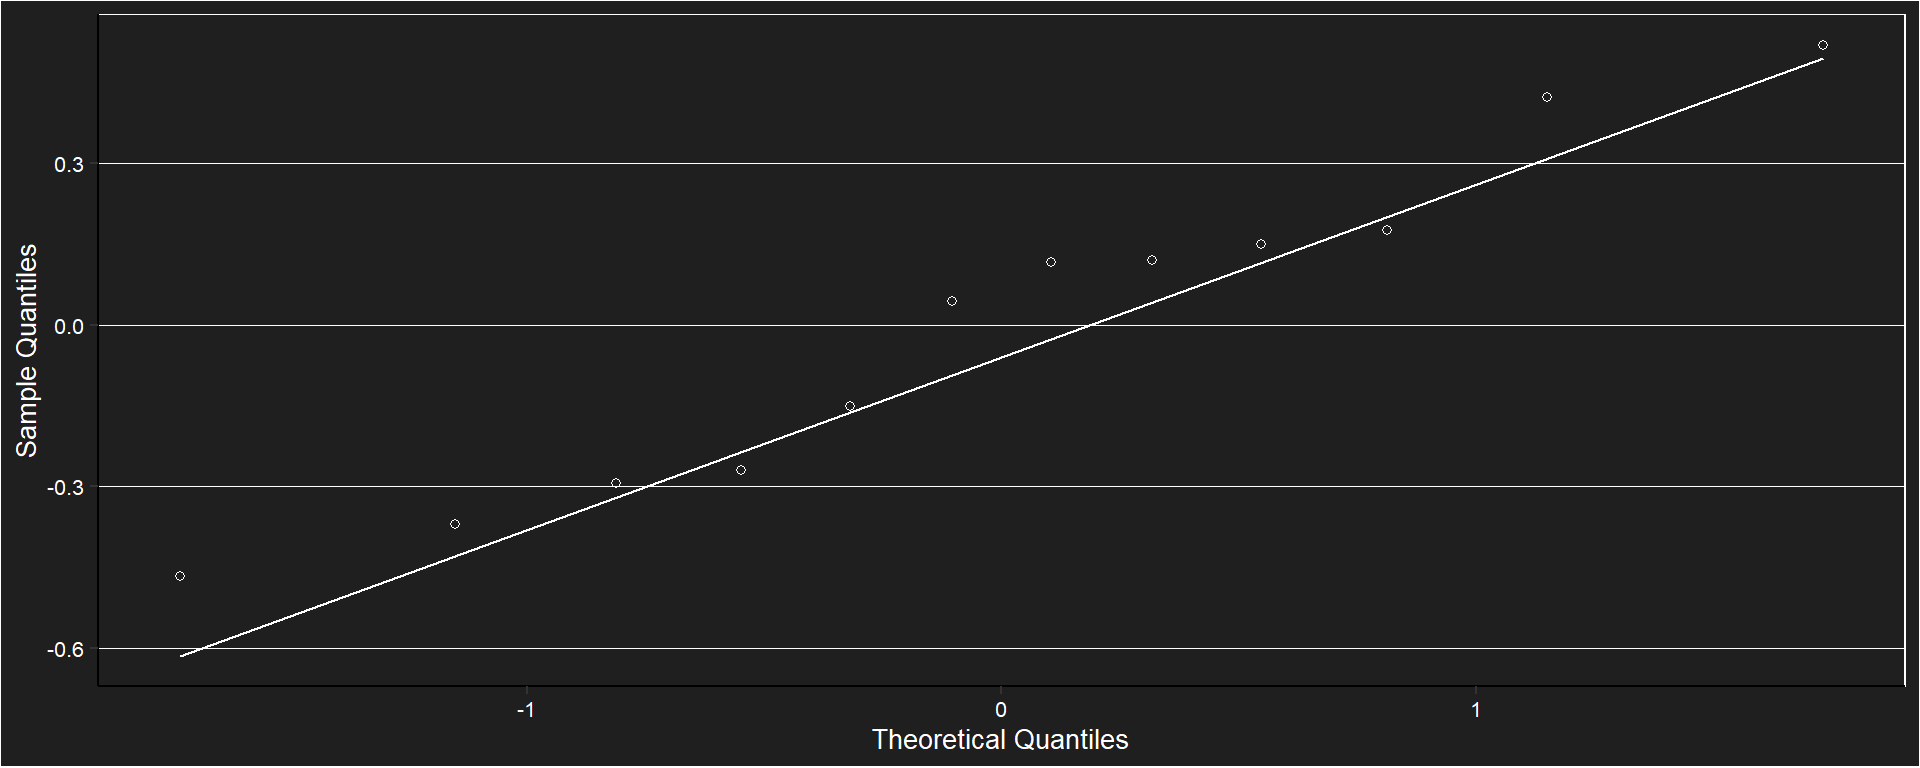
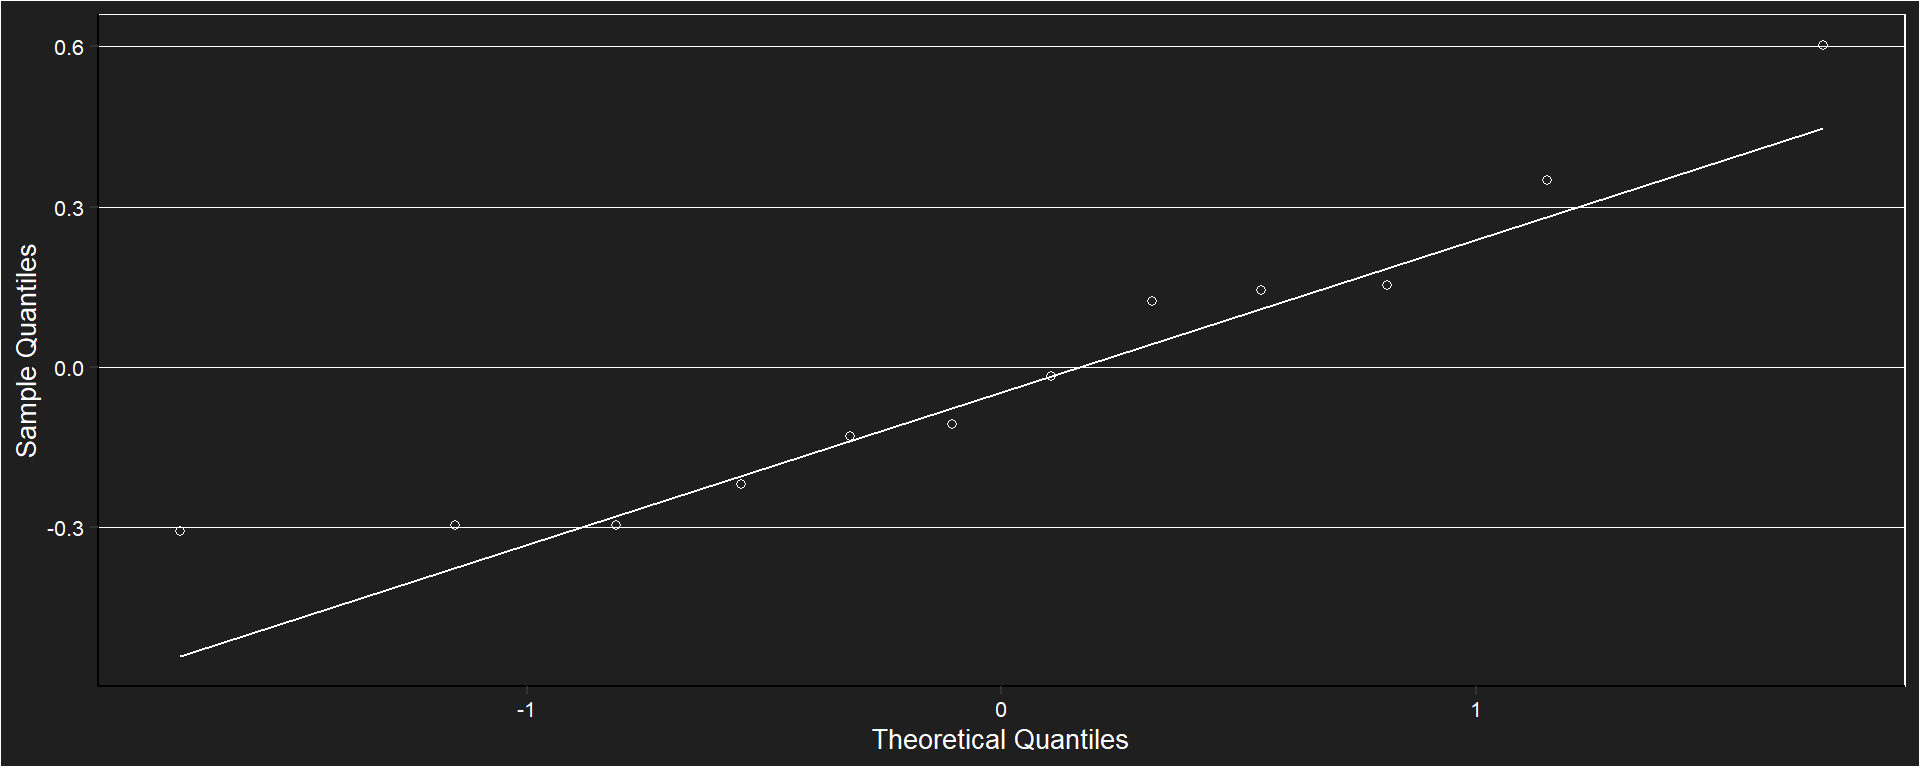
NAIE3

diff --git a/madFiber.html b/madFiber.html
@@ -470,18 +470,39 @@ madurez</h3>
 ## 2   DT  MM 3 73.6484073  0.83625999 0.482814929  2.07738497
 ## 3   DT   M 3 58.6434249  5.24560165 3.028549527 13.03079689
 ## 4   DT  SM 3 59.3641120 10.08351785 5.821721747 25.04884697
-## 5  FDI   I 3  1.5466667  0.52252592 0.301680479  1.29802633
-## 6  FDI  MM 3  1.1766667  0.11590226 0.066916200  0.28791717
-## 7  FDI   M 3  1.2600000  0.30643107 0.176918060  0.76121697
-## 8  FDI  SM 3  1.2966667  0.25696952 0.148361421  0.63834767
-## 9  FDS   I 3  4.5733333  0.25579940 0.147685853  0.63544094
-## 10 FDS  MM 3  3.3000000  0.46357308 0.267644042  1.15157937
-## 11 FDS   M 3  1.7700000  0.23430749 0.135277493  0.58205207
-## 12 FDS  SM 3  1.9266667  0.44657959 0.257832849  1.10936521
+## 5  FDI   I 3  4.5733333  0.25579940 0.147685853  0.63544094
+## 6  FDI  MM 3  3.3000000  0.46357308 0.267644042  1.15157937
+## 7  FDI   M 3  1.7700000  0.23430749 0.135277493  0.58205207
+## 8  FDI  SM 3  1.9266667  0.44657959 0.257832849  1.10936521
+## 9  FDS   I 3  1.5466667  0.52252592 0.301680479  1.29802633
+## 10 FDS  MM 3  1.1766667  0.11590226 0.066916200  0.28791717
+## 11 FDS   M 3  1.2600000  0.30643107 0.176918060  0.76121697
+## 12 FDS  SM 3  1.2966667  0.25696952 0.148361421  0.63834767
 ## 13 FDT   I 3  6.1200000  0.66460515 0.383709960  1.65097071
 ## 14 FDT  MM 3  4.4766667  0.57830211 0.333882880  1.43658209
 ## 15 FDT   M 3  3.0300000  0.45825757 0.264575131  1.13837491
 ## 16 FDT  SM 3  3.2233333  0.27300794 0.157621206  0.67818931
+## 17  IS   I 3  0.3371770  0.10613955 0.061279700  0.26366527
+## 18  IS  MM 3  0.3579186  0.01532281 0.008846628  0.03806397
+## 19  IS   M 3  0.7140465  0.14809968 0.085505389  0.36789999
+## 20  IS  SM 3  0.7165490  0.28408383 0.164015874  0.70570335</code></pre>
+<pre><code>##    CAR MAD N       CONS          sd          se          ci
+## 1   DT   I 3 75.0873682  5.72617785 3.306010322 14.22461434
+## 2   DT  MM 3 73.6484073  0.83625999 0.482814929  2.07738497
+## 3   DT   M 3 58.6434249  5.24560165 3.028549527 13.03079689
+## 4   DT  SM 3 59.3641120 10.08351785 5.821721747 25.04884697
+## 5  FDI   I 3 26.7113960  1.49404354 0.862586438  3.71140989
+## 6  FDI  MM 3 27.1320956  3.81142700 2.200528407  9.46810956
+## 7  FDI   M 3 15.8184939  2.09400656 1.208975254  5.20180067
+## 8  FDI  SM 3 15.5102894  3.59511007 2.075637769  8.93074851
+## 9  FDS   I 3  9.0335917  3.05190889 1.762020422  7.58136198
+## 10 FDS  MM 3  9.6743735  0.95293065 0.550174767  2.36721096
+## 11 FDS   M 3 11.2606228  2.73857515 1.581117098  6.80299780
+## 12 FDS  SM 3 10.4385858  2.06868768 1.194357391  5.13890509
+## 13 FDT   I 3 35.7449877  3.88174881 2.241128723  9.64279862
+## 14 FDT  MM 3 36.8064691  4.75471158 2.745134012 11.81135835
+## 15 FDT   M 3 27.0791168  4.09544892 2.364508538 10.17365911
+## 16 FDT  SM 3 25.9488752  2.19780213 1.268901652  5.45964315
 ## 17  IS   I 3  0.3371770  0.10613955 0.061279700  0.26366527
 ## 18  IS  MM 3  0.3579186  0.01532281 0.008846628  0.03806397
 ## 19  IS   M 3  0.7140465  0.14809968 0.085505389  0.36789999
@@ -497,44 +518,42 @@ madurez</h3>
 ## 
 ## Coefficients:
 ## (Intercept)        MADMM         MADM        MADSM  
-##       4.573       -1.273       -2.803       -2.647</code></pre>
+##      1.5467      -0.3700      -0.2867      -0.2500</code></pre>
 <p><img src="madFiber_files/figure-html/unnamed-chunk-4-1.png" width="960" style="display: block; margin: auto;" /><img src="madFiber_files/figure-html/unnamed-chunk-4-2.png" width="960" style="display: block; margin: auto;" /></p>
 <pre><code>## 
 ##  Shapiro-Wilk normality test
 ## 
 ## data:  e
-## W = 0.9504, p-value = 0.6428</code></pre>
+## W = 0.91259, p-value = 0.2302</code></pre>
 </div>
 <div id="anova" class="section level4">
 <h4>Anova</h4>
 <pre><code>## Analysis of Variance Table
 ## 
 ## Response: CONF
-##           Df  Sum Sq Mean Sq F value    Pr(&gt;F)    
-## MAD        3 15.5523  5.1841  38.784 4.106e-05 ***
-## Residuals  8  1.0693  0.1337                      
-## ---
-## Signif. codes:  0 &#39;***&#39; 0.001 &#39;**&#39; 0.01 &#39;*&#39; 0.05 &#39;.&#39; 0.1 &#39; &#39; 1</code></pre>
+##           Df Sum Sq  Mean Sq F value Pr(&gt;F)
+## MAD        3 0.2282 0.076067  0.6816 0.5877
+## Residuals  8 0.8928 0.111600</code></pre>
 </div>
 <div id="test-de-tukey" class="section level4">
 <h4>Test de Tukey</h4>
 <pre><code>## $emmeans
-##  MAD   emmean        SE df lower.CL upper.CL
-##  I   4.573333 0.2110819  8 4.086578 5.060089
-##  MM  3.300000 0.2110819  8 2.813244 3.786756
-##  M   1.770000 0.2110819  8 1.283244 2.256756
-##  SM  1.926667 0.2110819  8 1.439911 2.413422
+##  MAD   emmean       SE df  lower.CL upper.CL
+##  I   1.546667 0.192873  8 1.1019007 1.991433
+##  MM  1.176667 0.192873  8 0.7319007 1.621433
+##  M   1.260000 0.192873  8 0.8152340 1.704766
+##  SM  1.296667 0.192873  8 0.8519007 1.741433
 ## 
 ## Confidence level used: 0.95 
 ## 
 ## $contrasts
 ##  contrast   estimate        SE df t.ratio p.value
-##  I - MM    1.2733333 0.2985148  8  4.266  0.0117 
-##  I - M     2.8033333 0.2985148  8  9.391  0.0001 
-##  I - SM    2.6466667 0.2985148  8  8.866  0.0001 
-##  MM - M    1.5300000 0.2985148  8  5.125  0.0040 
-##  MM - SM   1.3733333 0.2985148  8  4.601  0.0076 
-##  M - SM   -0.1566667 0.2985148  8 -0.525  0.9507 
+##  I - MM    0.3700000 0.2727636  8  1.356  0.5566 
+##  I - M     0.2866667 0.2727636  8  1.051  0.7264 
+##  I - SM    0.2500000 0.2727636  8  0.917  0.7971 
+##  MM - M   -0.0833333 0.2727636  8 -0.306  0.9894 
+##  MM - SM  -0.1200000 0.2727636  8 -0.440  0.9698 
+##  M - SM   -0.0366667 0.2727636  8 -0.134  0.9991 
 ## 
 ## P value adjustment: tukey method for comparing a family of 4 estimates</code></pre>
 <p><img src="madFiber_files/figure-html/unnamed-chunk-6-1.png" width="960" style="display: block; margin: auto;" /></p>
@@ -554,42 +573,44 @@ madurez</h3>
 ## 
 ## Coefficients:
 ## (Intercept)        MADMM         MADM        MADSM  
-##      1.5467      -0.3700      -0.2867      -0.2500</code></pre>
+##       4.573       -1.273       -2.803       -2.647</code></pre>
 <p><img src="madFiber_files/figure-html/unnamed-chunk-7-1.png" width="960" style="display: block; margin: auto;" /><img src="madFiber_files/figure-html/unnamed-chunk-7-2.png" width="960" style="display: block; margin: auto;" /></p>
 <pre><code>## 
 ##  Shapiro-Wilk normality test
 ## 
 ## data:  e
-## W = 0.91259, p-value = 0.2302</code></pre>
+## W = 0.9504, p-value = 0.6428</code></pre>
 </div>
 <div id="anova-1" class="section level4">
 <h4>Anova</h4>
 <pre><code>## Analysis of Variance Table
 ## 
 ## Response: CONF
-##           Df Sum Sq  Mean Sq F value Pr(&gt;F)
-## MAD        3 0.2282 0.076067  0.6816 0.5877
-## Residuals  8 0.8928 0.111600</code></pre>
+##           Df  Sum Sq Mean Sq F value    Pr(&gt;F)    
+## MAD        3 15.5523  5.1841  38.784 4.106e-05 ***
+## Residuals  8  1.0693  0.1337                      
+## ---
+## Signif. codes:  0 &#39;***&#39; 0.001 &#39;**&#39; 0.01 &#39;*&#39; 0.05 &#39;.&#39; 0.1 &#39; &#39; 1</code></pre>
 </div>
 <div id="test-de-tukey-1" class="section level4">
 <h4>Test de Tukey</h4>
 <pre><code>## $emmeans
-##  MAD   emmean       SE df  lower.CL upper.CL
-##  I   1.546667 0.192873  8 1.1019007 1.991433
-##  MM  1.176667 0.192873  8 0.7319007 1.621433
-##  M   1.260000 0.192873  8 0.8152340 1.704766
-##  SM  1.296667 0.192873  8 0.8519007 1.741433
+##  MAD   emmean        SE df lower.CL upper.CL
+##  I   4.573333 0.2110819  8 4.086578 5.060089
+##  MM  3.300000 0.2110819  8 2.813244 3.786756
+##  M   1.770000 0.2110819  8 1.283244 2.256756
+##  SM  1.926667 0.2110819  8 1.439911 2.413422
 ## 
 ## Confidence level used: 0.95 
 ## 
 ## $contrasts
 ##  contrast   estimate        SE df t.ratio p.value
-##  I - MM    0.3700000 0.2727636  8  1.356  0.5566 
-##  I - M     0.2866667 0.2727636  8  1.051  0.7264 
-##  I - SM    0.2500000 0.2727636  8  0.917  0.7971 
-##  MM - M   -0.0833333 0.2727636  8 -0.306  0.9894 
-##  MM - SM  -0.1200000 0.2727636  8 -0.440  0.9698 
-##  M - SM   -0.0366667 0.2727636  8 -0.134  0.9991 
+##  I - MM    1.2733333 0.2985148  8  4.266  0.0117 
+##  I - M     2.8033333 0.2985148  8  9.391  0.0001 
+##  I - SM    2.6466667 0.2985148  8  8.866  0.0001 
+##  MM - M    1.5300000 0.2985148  8  5.125  0.0040 
+##  MM - SM   1.3733333 0.2985148  8  4.601  0.0076 
+##  M - SM   -0.1566667 0.2985148  8 -0.525  0.9507 
 ## 
 ## P value adjustment: tukey method for comparing a family of 4 estimates</code></pre>
 <p><img src="madFiber_files/figure-html/unnamed-chunk-9-1.png" width="960" style="display: block; margin: auto;" /></p>
@@ -669,44 +690,42 @@ madurez</h3>
 ## 
 ## Coefficients:
 ## (Intercept)        MADMM         MADM        MADSM  
-##     26.7114       0.4207     -10.8929     -11.2011</code></pre>
+##      9.0336       0.6408       2.2270       1.4050</code></pre>
 <p><img src="madFiber_files/figure-html/unnamed-chunk-13-1.png" width="960" style="display: block; margin: auto;" /><img src="madFiber_files/figure-html/unnamed-chunk-13-2.png" width="960" style="display: block; margin: auto;" /></p>
 <pre><code>## 
 ##  Shapiro-Wilk normality test
 ## 
 ## data:  e
-## W = 0.95923, p-value = 0.7729</code></pre>
+## W = 0.90841, p-value = 0.2036</code></pre>
 </div>
 <div id="anova-3" class="section level4">
 <h4>Anova</h4>
 <pre><code>## Analysis of Variance Table
 ## 
 ## Response: CONS
-##           Df Sum Sq Mean Sq F value   Pr(&gt;F)   
-## MAD        3 380.59 126.864  14.895 0.001226 **
-## Residuals  8  68.14   8.517                    
-## ---
-## Signif. codes:  0 &#39;***&#39; 0.001 &#39;**&#39; 0.01 &#39;*&#39; 0.05 &#39;.&#39; 0.1 &#39; &#39; 1</code></pre>
+##           Df Sum Sq Mean Sq F value Pr(&gt;F)
+## MAD        3  8.340  2.7801  0.5054 0.6893
+## Residuals  8 44.003  5.5004</code></pre>
 </div>
 <div id="test-de-tukey-3" class="section level4">
 <h4>Test de Tukey</h4>
 <pre><code>## $emmeans
-##  MAD   emmean       SE df lower.CL upper.CL
-##  I   26.71140 1.684954  8 22.82589 30.59691
-##  MM  27.13210 1.684954  8 23.24659 31.01760
-##  M   15.81849 1.684954  8 11.93298 19.70400
-##  SM  15.51029 1.684954  8 11.62478 19.39580
+##  MAD    emmean       SE df lower.CL upper.CL
+##  I    9.033592 1.354052  8 5.911142 12.15604
+##  MM   9.674373 1.354052  8 6.551924 12.79682
+##  M   11.260623 1.354052  8 8.138173 14.38307
+##  SM  10.438586 1.354052  8 7.316136 13.56104
 ## 
 ## Confidence level used: 0.95 
 ## 
 ## $contrasts
-##  contrast  estimate       SE df t.ratio p.value
-##  I - MM   -0.420700 2.382884  8 -0.177  0.9979 
-##  I - M    10.892902 2.382884  8  4.571  0.0079 
-##  I - SM   11.201107 2.382884  8  4.701  0.0067 
-##  MM - M   11.313602 2.382884  8  4.748  0.0063 
-##  MM - SM  11.621806 2.382884  8  4.877  0.0054 
-##  M - SM    0.308205 2.382884  8  0.129  0.9992 
+##  contrast   estimate       SE df t.ratio p.value
+##  I - MM   -0.6407818 1.914919  8 -0.335  0.9861 
+##  I - M    -2.2270312 1.914919  8 -1.163  0.6644 
+##  I - SM   -1.4049941 1.914919  8 -0.734  0.8809 
+##  MM - M   -1.5862493 1.914919  8 -0.828  0.8398 
+##  MM - SM  -0.7642123 1.914919  8 -0.399  0.9770 
+##  M - SM    0.8220370 1.914919  8  0.429  0.9718 
 ## 
 ## P value adjustment: tukey method for comparing a family of 4 estimates</code></pre>
 <p><img src="madFiber_files/figure-html/unnamed-chunk-15-1.png" width="960" style="display: block; margin: auto;" /></p>
@@ -726,42 +745,44 @@ madurez</h3>
 ## 
 ## Coefficients:
 ## (Intercept)        MADMM         MADM        MADSM  
-##      9.0336       0.6408       2.2270       1.4050</code></pre>
+##     26.7114       0.4207     -10.8929     -11.2011</code></pre>
 <p><img src="madFiber_files/figure-html/unnamed-chunk-16-1.png" width="960" style="display: block; margin: auto;" /><img src="madFiber_files/figure-html/unnamed-chunk-16-2.png" width="960" style="display: block; margin: auto;" /></p>
 <pre><code>## 
 ##  Shapiro-Wilk normality test
 ## 
 ## data:  e
-## W = 0.90841, p-value = 0.2036</code></pre>
+## W = 0.95923, p-value = 0.7729</code></pre>
 </div>
 <div id="anova-4" class="section level4">
 <h4>Anova</h4>
 <pre><code>## Analysis of Variance Table
 ## 
 ## Response: CONS
-##           Df Sum Sq Mean Sq F value Pr(&gt;F)
-## MAD        3  8.340  2.7801  0.5054 0.6893
-## Residuals  8 44.003  5.5004</code></pre>
+##           Df Sum Sq Mean Sq F value   Pr(&gt;F)   
+## MAD        3 380.59 126.864  14.895 0.001226 **
+## Residuals  8  68.14   8.517                    
+## ---
+## Signif. codes:  0 &#39;***&#39; 0.001 &#39;**&#39; 0.01 &#39;*&#39; 0.05 &#39;.&#39; 0.1 &#39; &#39; 1</code></pre>
 </div>
 <div id="test-de-tukey-4" class="section level4">
 <h4>Test de Tukey</h4>
 <pre><code>## $emmeans
-##  MAD    emmean       SE df lower.CL upper.CL
-##  I    9.033592 1.354052  8 5.911142 12.15604
-##  MM   9.674373 1.354052  8 6.551924 12.79682
-##  M   11.260623 1.354052  8 8.138173 14.38307
-##  SM  10.438586 1.354052  8 7.316136 13.56104
+##  MAD   emmean       SE df lower.CL upper.CL
+##  I   26.71140 1.684954  8 22.82589 30.59691
+##  MM  27.13210 1.684954  8 23.24659 31.01760
+##  M   15.81849 1.684954  8 11.93298 19.70400
+##  SM  15.51029 1.684954  8 11.62478 19.39580
 ## 
 ## Confidence level used: 0.95 
 ## 
 ## $contrasts
-##  contrast   estimate       SE df t.ratio p.value
-##  I - MM   -0.6407818 1.914919  8 -0.335  0.9861 
-##  I - M    -2.2270312 1.914919  8 -1.163  0.6644 
-##  I - SM   -1.4049941 1.914919  8 -0.734  0.8809 
-##  MM - M   -1.5862493 1.914919  8 -0.828  0.8398 
-##  MM - SM  -0.7642123 1.914919  8 -0.399  0.9770 
-##  M - SM    0.8220370 1.914919  8  0.429  0.9718 
+##  contrast  estimate       SE df t.ratio p.value
+##  I - MM   -0.420700 2.382884  8 -0.177  0.9979 
+##  I - M    10.892902 2.382884  8  4.571  0.0079 
+##  I - SM   11.201107 2.382884  8  4.701  0.0067 
+##  MM - M   11.313602 2.382884  8  4.748  0.0063 
+##  MM - SM  11.621806 2.382884  8  4.877  0.0054 
+##  M - SM    0.308205 2.382884  8  0.129  0.9992 
 ## 
 ## P value adjustment: tukey method for comparing a family of 4 estimates</code></pre>
 <p><img src="madFiber_files/figure-html/unnamed-chunk-18-1.png" width="960" style="display: block; margin: auto;" /></p>

diff --git a/Postharvest.html b/Postharvest.html
@@ -1193,9 +1193,9 @@ tiempo.</p>
 <h4>Principal effects</h4>
 <p><img src="Postharvest_files/figure-html/unnamed-chunk-77-1.png" width="672" style="display: block; margin: auto;" /></p>
 <pre><code>##  contrast  estimate         SE    df  lower.CL  upper.CL
-##  0 - 7    0.5794536 0.08049026 67.59 0.3865660 0.7723412
-##  0 - 14   0.9384849 0.07280629 54.26 0.7630470 1.1139229
-##  7 - 14   0.3590313 0.07551304 67.50 0.1780661 0.5399966
+##  0 - 7    0.5794536 0.08049026 67.68 0.3865720 0.7723352
+##  0 - 14   0.9384849 0.07280629 53.99 0.7630223 1.1139475
+##  7 - 14   0.3590313 0.07551304 67.35 0.1780567 0.5400059
 ## 
 ## Results are averaged over the levels of: TEMP 
 ## Degrees-of-freedom method: appx-satterthwaite 
@@ -1478,12 +1478,12 @@ O<sub>2</sub> for mature and immature fruits.</h3>
 ##   Log-restricted-likelihood: -167.0254
 ##   Fixed: CO2 ~ MAD * TIME 
 ##    (Intercept)      MADMaduro           TIME MADMaduro:TIME 
-##   3.375067e+06  -4.642073e+06  -2.015739e-03   2.772511e-03 
+##   3.375416e+06  -4.642553e+06  -2.015739e-03   2.772511e-03 
 ## 
 ## Random effects:
 ##  Formula: ~1 | REP
 ##         (Intercept) Residual
-## StdDev:    1.278433 13.67192
+## StdDev:    1.278448 13.67191
 ## 
 ## Number of Observations: 40
 ## Number of Groups: 2</code></pre>
@@ -1501,7 +1501,7 @@ O<sub>2</sub> for mature and immature fruits.</h3>
 <div id="anova-8" class="section level3">
 <h3>Anova</h3>
 <pre><code>##             numDF denDF  F-value p-value
-## (Intercept)     1    35 919.3380  &lt;.0001
+## (Intercept)     1    35 919.3348  &lt;.0001
 ## MAD             1    35   5.2828  0.0276
 ## TIME            1    35   0.5704  0.4551
 ## MAD:TIME        1    35   2.7595  0.1056</code></pre>

diff --git a/index.html b/index.html
@@ -420,7 +420,7 @@ its variability in three populations.</p>
 variables will be recorded in three populations of the province of Entre
 Ríos in Argentina: Concordia, “El Palmar” National Park and the reserve
 “El Potrero de San Lorenzo” in Gualeguaychú.</p>
-<p><iframe data-deferred-src="app58c6ea15592e2aa64a7f7edf5240815c/?w=&amp;__subapp__=1" width="100%" height="400" class="shiny-frame shiny-frame-deferred"></iframe></p>
+<p><iframe data-deferred-src="app2613ff1f7b6f5e15a79bf01620a2d65d/?w=&amp;__subapp__=1" width="100%" height="400" class="shiny-frame shiny-frame-deferred"></iframe></p>
 <p>The studies will be conducted in september (Flowering season) and
 November (Fruiting season) 2019, 2021 and 2022.</p>
 <p>Adult genotypes of <em>H. edulis</em> (15 to 20 per population) will

diff --git a/Morphological.html b/Morphological.html
@@ -379,9 +379,6 @@ src="C:/Users/um/Documents/ipovilonis/Doc/6%20-%20Producción/test/ipovilonis.gi
 alt="" />
 <p class="caption">The fruit</p>
 </div>
-<pre><code>## Warning: NAs introduced by coercion
-
-## Warning: NAs introduced by coercion</code></pre>
 <div id="section-average-fruit" class="section level1">
 <h1>Average fruit</h1>
 <pre><code>##                          variable      means

diff --git a/Climate.html b/Climate.html
@@ -373,9 +373,6 @@ $(document).ready(function () {
 </div>
 
 
-<pre><code>## New names:
-## * `` -&gt; ...10
-## * `` -&gt; ...12</code></pre>
 <pre><code>##             site year month  N     temp       sd        se        ci
 ## 1      concordia 2019     1 31 26.22903 4.020464 0.7220966 1.4747180
 ## 2      concordia 2019     2 28 26.64286 4.099632 0.7747577 1.5896714
